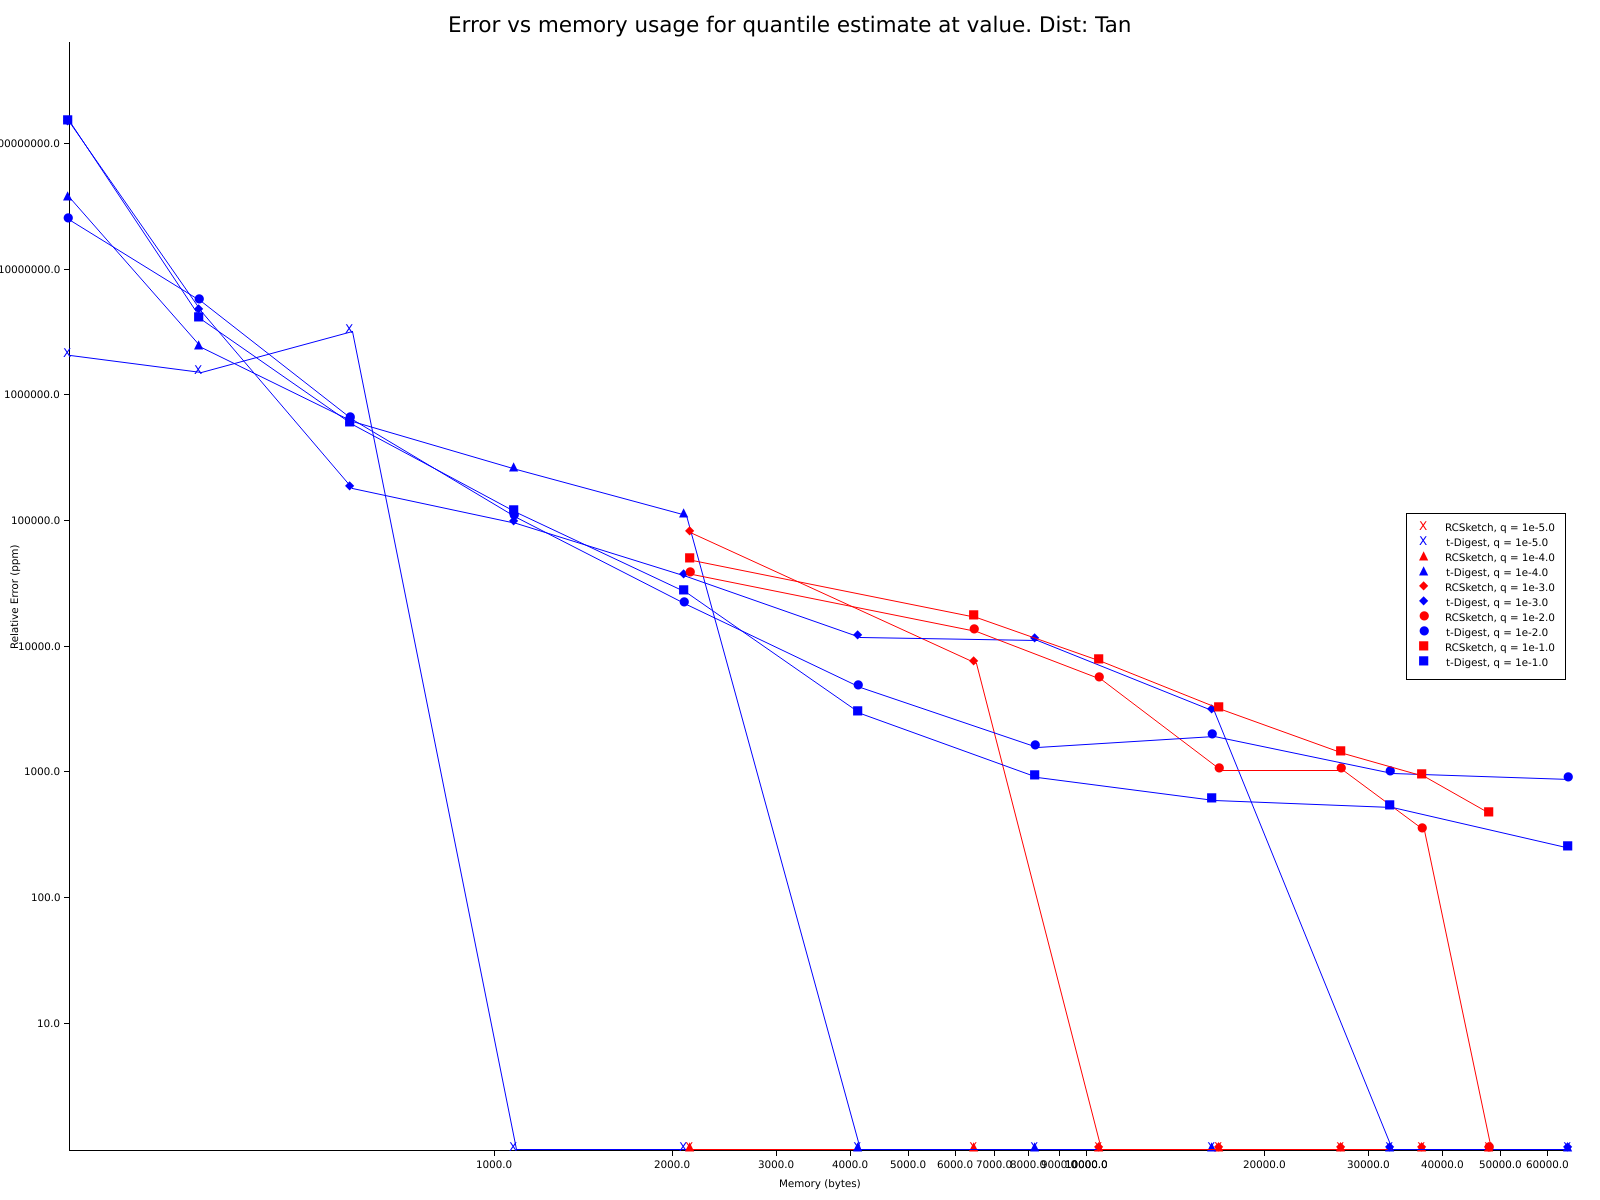
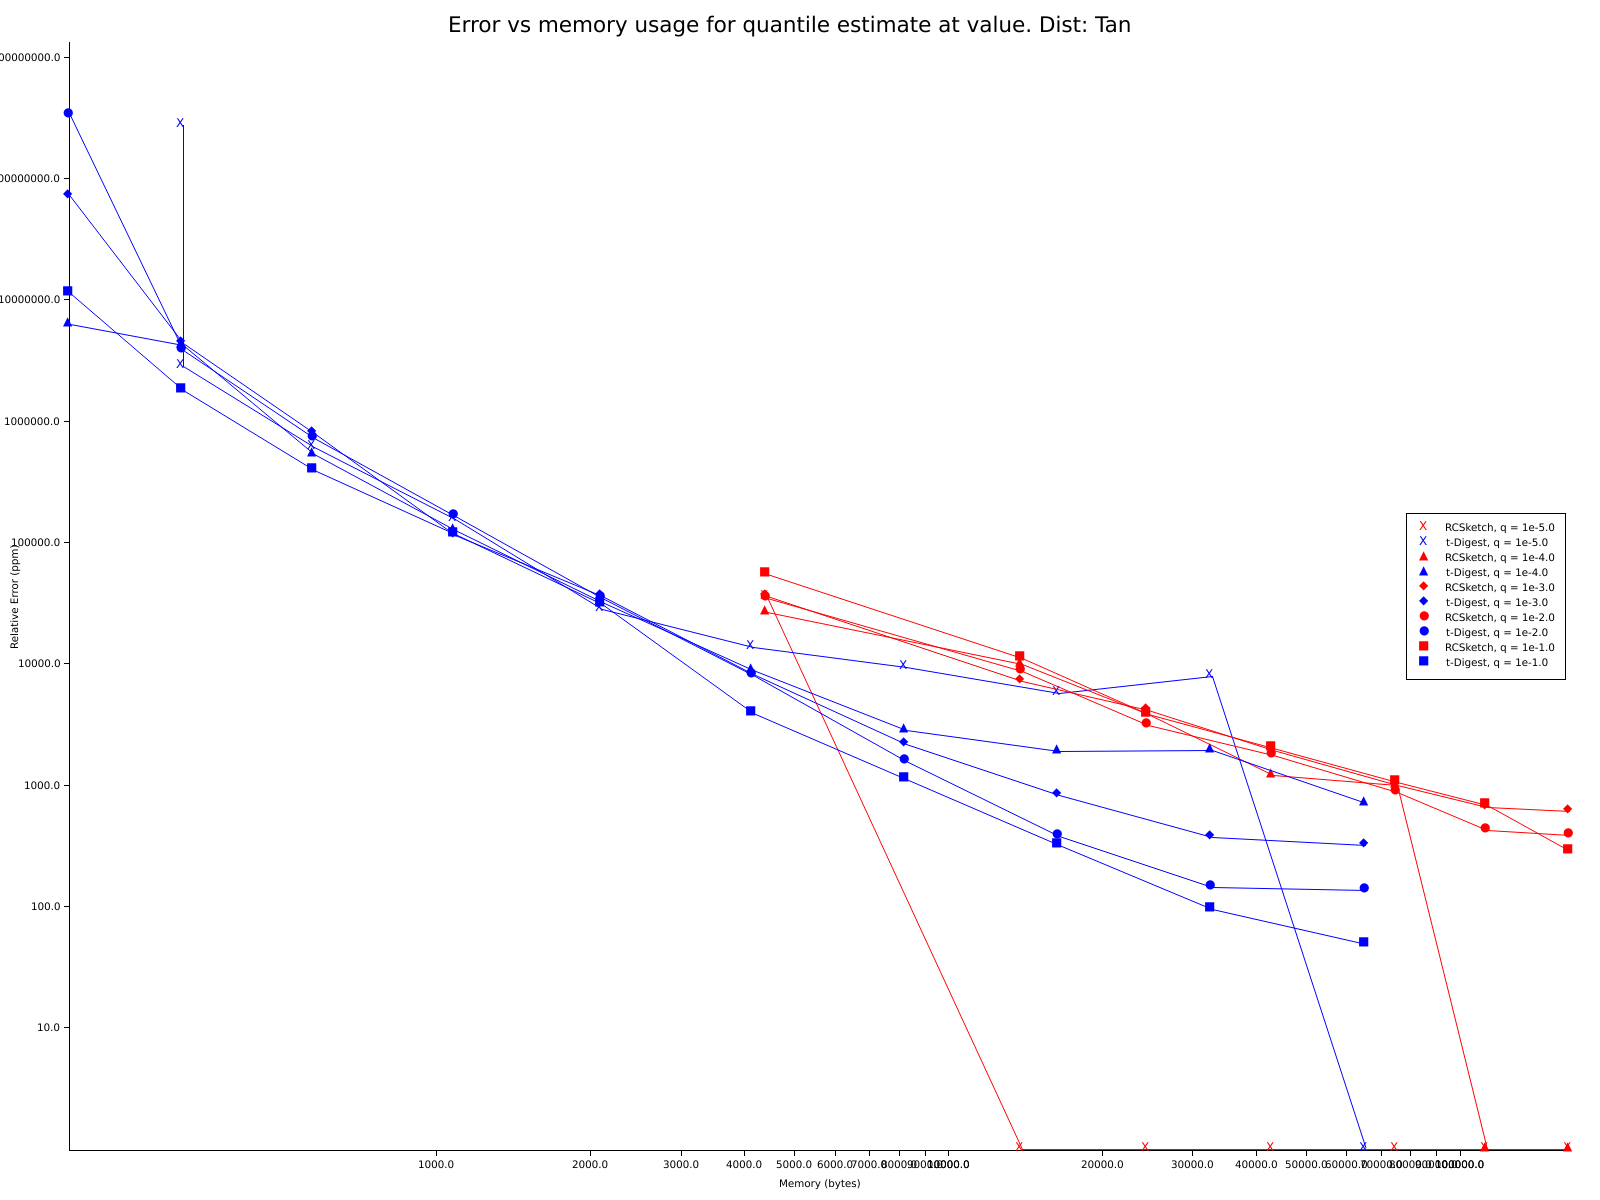
More graphs

diff --git a/examples/accuracy.rs b/examples/accuracy.rs
@@ -953,7 +953,7 @@ where
     .map(|(q, marker)| (f64::from(*q), marker.to_string()))
     .collect::<Vec<(f64, String)>>();
 
-    let input_size = 100_000;
+    let input_size = 10_000_000;
     let rc_sketch_mem_size = |param| {
         let digest = create_rcsketch(param)(&gen_uniform_tan_vec(input_size));
         digest.owned_size()
@@ -974,7 +974,7 @@ where
                     || dataset_func(input_size),
                     test_func(T::from(*quantile).unwrap()),
                     error_func,
-                    10,
+                    20,
                 )
                 .unwrap();
                 s.push((
@@ -1005,7 +1005,7 @@ where
                     },
                     test_funcf64(*quantile),
                     error_funcf64,
-                    10,
+                    20,
                 )
                 .unwrap();
                 s.push((
@@ -1870,13 +1870,13 @@ fn relative_error<T>(measured: T, actual: T) -> T
 where
     T: Float,
 {
-    println!(
-        "{} {}  | {} {}",
-        measured.to_f32().unwrap(),
-        actual.to_f32().unwrap(),
-        measured.to_f64().unwrap(),
-        actual.to_f64().unwrap()
-    );
+//    println!(
+//        "{} {}  | {} {}",
+//        measured.to_f32().unwrap(),
+//        actual.to_f32().unwrap(),
+//        measured.to_f64().unwrap(),
+//        actual.to_f64().unwrap()
+//    );
     // if ((measured - actual).abs() / actual.abs() >= T::from(1.0).unwrap()) {
     //     println!(
     //         "Error {} {} {}",
